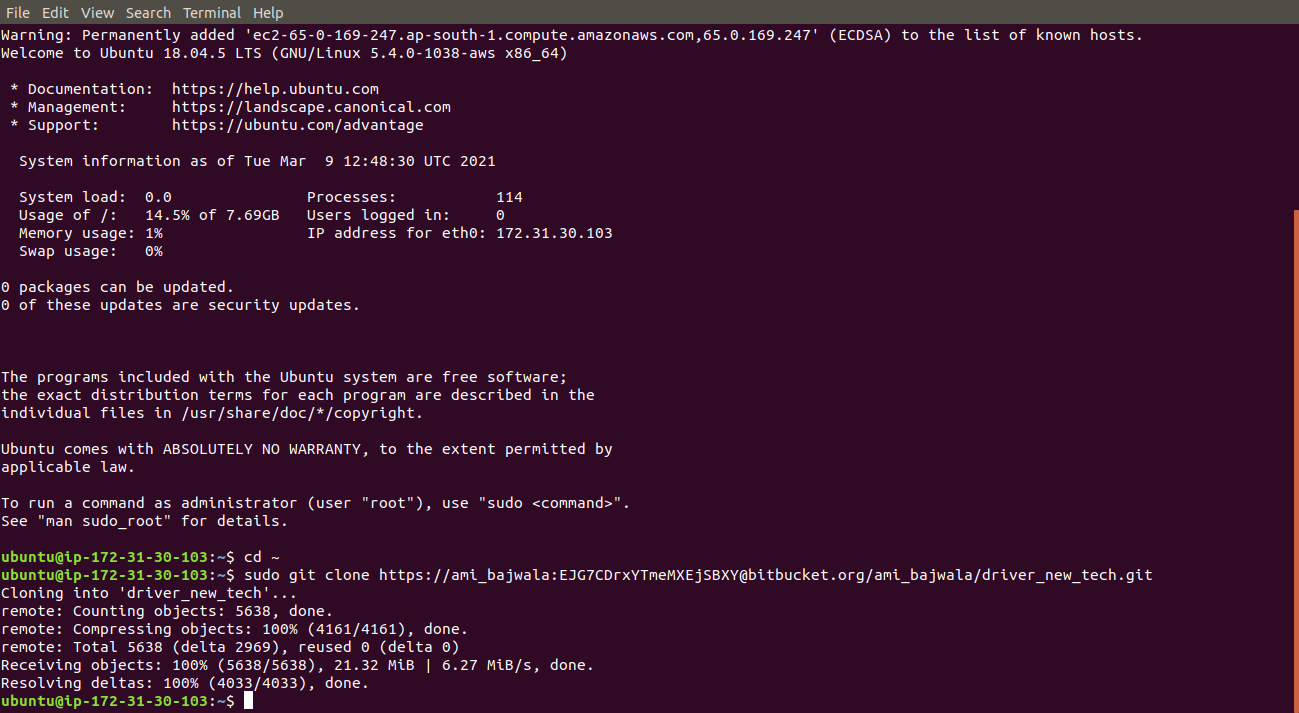
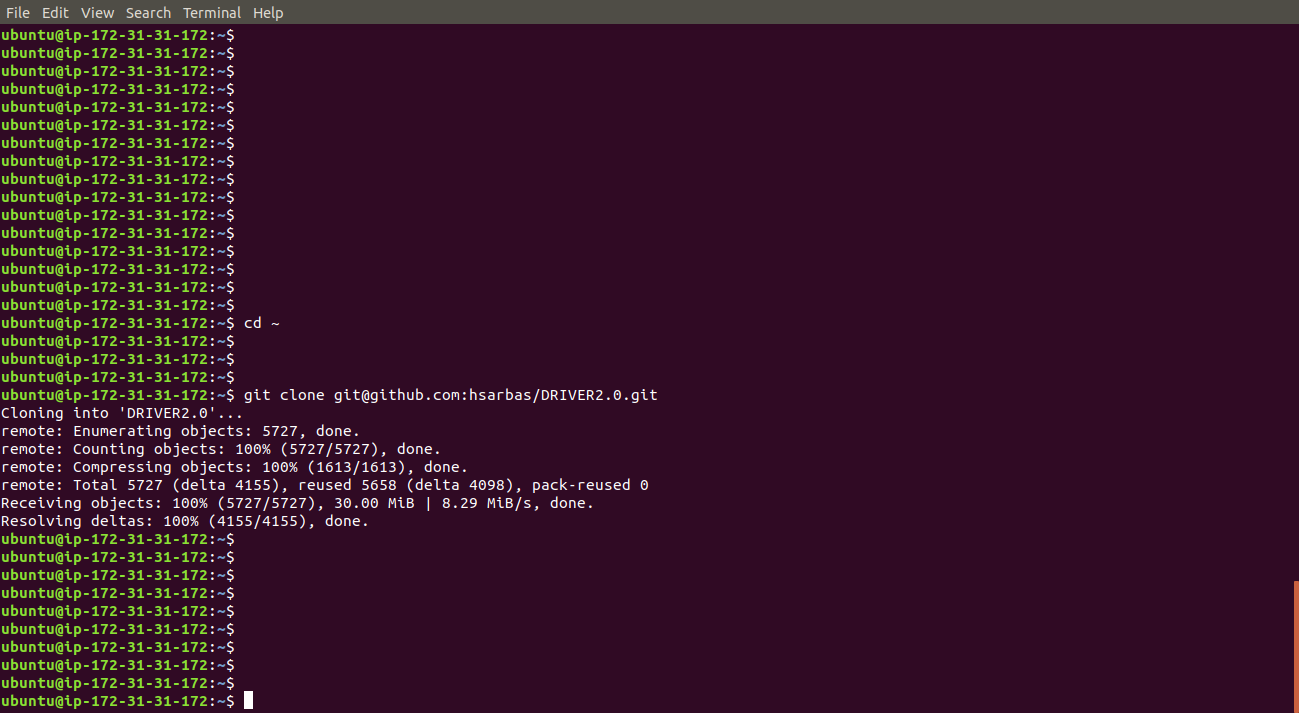
commit for updating clone command

Changed region(s): [[0.0, 0.0309, 0.893, 0.9874], [0.9854, 0.2777, 1.0, 0.8331]]

diff --git a/web-installation.md b/web-installation.md
@@ -1,9 +1,31 @@
 ****Installation Guide for Ubuntu 18.04****
 
-**1. After login into instance through ssh take a clone using below commands.**
+You must need a **github account with ssh key set up**
+
+After creating github account you can follow below steps to set up ssh key
+
+    ssh-keygen
+
+![keygen](images/keygen1.png)
+
+Press enter to accept the default key and path
+
+Enter and re-enter a passphrase when prompted.
+
+    cat .ssh/id_rsa.pub (in case not default change the path after cat)
+
+![keygen](images/keygen2.png)
+
+###### Copy the ssh key
+
+**login to github** --> **click your avatar** --> **settings** --> under **Account settings** select **SSH and GPG keys**
+click on **New SSH key** button **paste the copied key** inside **key** textarea click on **Add SSH key**
+
+
+**1. After setting up ssh key take clone using below commands.**
 
     cd ~
-    git clone git@bitbucket.org:ami_bajwala/driver_new_tech.git
+    git clone git@github.com:hsarbas/DRIVER2.0.git
 
 ![step1](images/Installation_step1.png)
 

diff --git a/android-installation.md b/android-installation.md
@@ -2,7 +2,7 @@ DRIVER 2.0 Android Installation Guide
 
 *Take pull from Github/BitBucket*
 
-    git clone https://ami_bajwala@bitbucket.org/ami_bajwala/driver_2.0_android.git
+    git clone git@github.com:hsarbas/DRIVER2.0-Android.git
 
 ![Step 4](images/Android_Step1.png)
 

diff --git a/ios-installation.md b/ios-installation.md
@@ -2,7 +2,7 @@ DRIVER 2.0 iOS Installation Guide
 
 *Take pull from Github/BitBucket.*
 
-    git clone https://ami_bajwala@bitbucket.org/ami_bajwala/driver_ios.git
+    git clone git@github.com:hsarbas/DRIVER2.0-iOS.git
 
 *Install Xcode Version 11.6*
 
